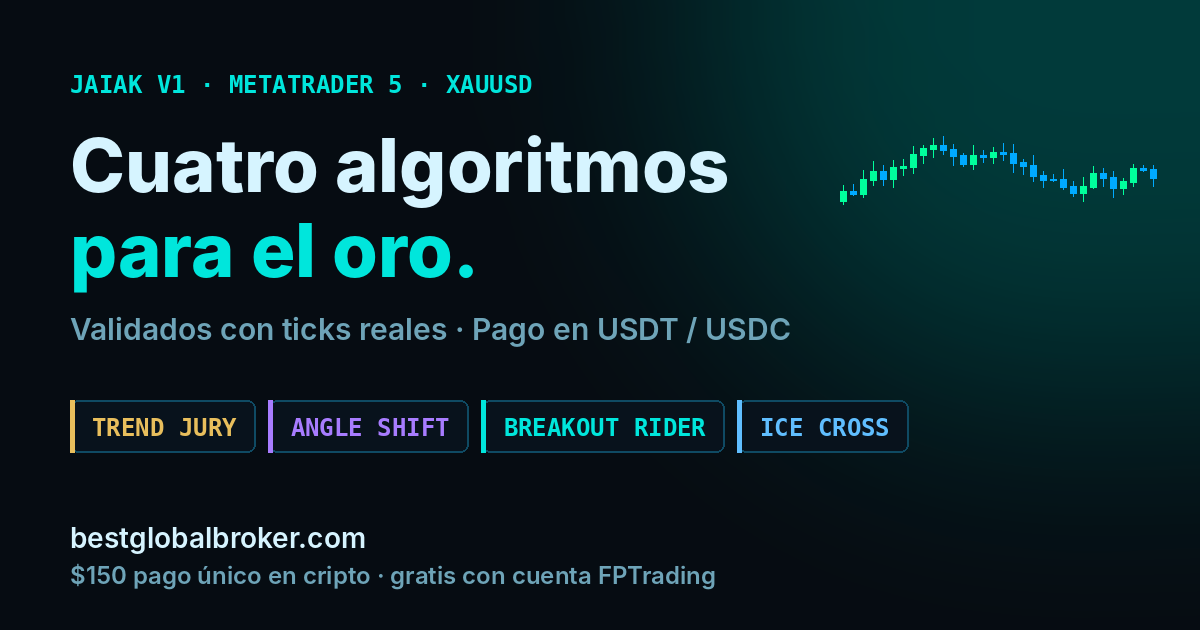
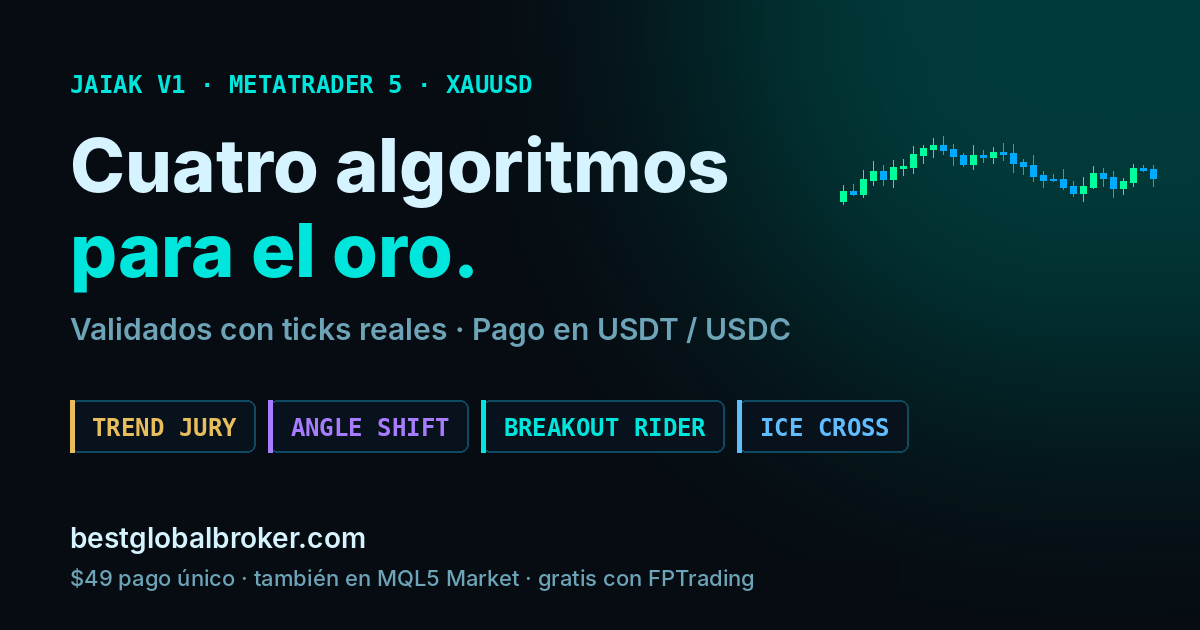
Price $49, add 'Also on MQL5 Market' buttons, clear old $150 crypto links
Claude-Session: https://claude.ai/code/session_019ddELBzFjdqUUo8kfWymxw

Changed region(s): [[0.0617, 0.8746, 0.6475, 0.9349]]

diff --git a/index.html b/index.html
@@ -5,7 +5,7 @@
   <meta name="viewport" content="width=device-width, initial-scale=1, viewport-fit=cover">
   <meta http-equiv="X-UA-Compatible" content="IE=edge">
   <title>JAIAK V1 · Expert Advisors MT5 para XAUUSD (oro) | BestGlobalBroker.com</title>
-  <meta name="description" content="4 Expert Advisors JAIAK V1 para MetaTrader 5 en XAUUSD: TREND JURY, ANGLE SHIFT, BREAKOUT RIDER e ICE CROSS. Validados con ticks reales. $150 pago único o gratis con cuenta FPTrading.">
+  <meta name="description" content="4 Expert Advisors JAIAK V1 para MetaTrader 5 en XAUUSD: TREND JURY, ANGLE SHIFT, BREAKOUT RIDER e ICE CROSS. Validados con ticks reales. $49 pago único (también en MQL5 Market) o gratis con cuenta FPTrading.">
   <meta name="robots" content="index, follow, max-image-preview:large">
   <meta name="theme-color" content="#060c12">
   <meta name="color-scheme" content="dark">
@@ -86,7 +86,7 @@
    "url": "https://bestglobalbroker.com/#ea-jury",
    "offers": {
     "@type": "Offer",
-    "price": "150.00",
+    "price": "49.00",
     "priceCurrency": "USD",
     "availability": "https://schema.org/InStock",
     "url": "https://bestglobalbroker.com/#ea-jury"
@@ -107,7 +107,7 @@
    "url": "https://bestglobalbroker.com/#ea-angle",
    "offers": {
     "@type": "Offer",
-    "price": "150.00",
+    "price": "49.00",
     "priceCurrency": "USD",
     "availability": "https://schema.org/InStock",
     "url": "https://bestglobalbroker.com/#ea-angle"
@@ -128,7 +128,7 @@
    "url": "https://bestglobalbroker.com/#ea-rider",
    "offers": {
     "@type": "Offer",
-    "price": "150.00",
+    "price": "49.00",
     "priceCurrency": "USD",
     "availability": "https://schema.org/InStock",
     "url": "https://bestglobalbroker.com/#ea-rider"
@@ -149,7 +149,7 @@
    "url": "https://bestglobalbroker.com/#ea-ice",
    "offers": {
     "@type": "Offer",
-    "price": "150.00",
+    "price": "49.00",
     "priceCurrency": "USD",
     "availability": "https://schema.org/InStock",
     "url": "https://bestglobalbroker.com/#ea-ice"
@@ -362,8 +362,9 @@
               <div><dt data-i18n="spec_risk">Riesgo</dt><dd>0.30%</dd></div>
             </dl>
             <div class="card-act">
-              <a class="btn btn-acc btn-sm" href="#solicitud" data-buy="jury"><span data-i18n="btn_buy">Comprar · $150</span></a>
+              <a class="btn btn-acc btn-sm" href="#solicitud" data-buy="jury"><span data-i18n="btn_buy">Comprar · $49</span></a>
               <a class="btn btn-ghost btn-sm" href="#precios"><span data-i18n="btn_free">Gratis con FPTrading</span></a>
+              <a class="btn btn-mql5 btn-sm" href="https://www.mql5.com/en/market/product/209857" target="_blank" rel="noopener"><span data-i18n="btn_mql5">También en MQL5 Market</span></a>
             </div>
           </article>
           <article class="card acc-angle reveal" id="ea-angle">
@@ -387,8 +388,9 @@
               <div><dt data-i18n="spec_risk">Riesgo</dt><dd>0.30%</dd></div>
             </dl>
             <div class="card-act">
-              <a class="btn btn-acc btn-sm" href="#solicitud" data-buy="angle"><span data-i18n="btn_buy">Comprar · $150</span></a>
+              <a class="btn btn-acc btn-sm" href="#solicitud" data-buy="angle"><span data-i18n="btn_buy">Comprar · $49</span></a>
               <a class="btn btn-ghost btn-sm" href="#precios"><span data-i18n="btn_free">Gratis con FPTrading</span></a>
+              <a class="btn btn-mql5 btn-sm" href="https://www.mql5.com/en/market/product/209859" target="_blank" rel="noopener"><span data-i18n="btn_mql5">También en MQL5 Market</span></a>
             </div>
           </article>
           <article class="card acc-rider reveal" id="ea-rider">
@@ -412,8 +414,9 @@
               <div><dt data-i18n="spec_risk">Riesgo</dt><dd>0.30%</dd></div>
             </dl>
             <div class="card-act">
-              <a class="btn btn-acc btn-sm" href="#solicitud" data-buy="rider"><span data-i18n="btn_buy">Comprar · $150</span></a>
+              <a class="btn btn-acc btn-sm" href="#solicitud" data-buy="rider"><span data-i18n="btn_buy">Comprar · $49</span></a>
               <a class="btn btn-ghost btn-sm" href="#precios"><span data-i18n="btn_free">Gratis con FPTrading</span></a>
+              <a class="btn btn-mql5 btn-sm" href="https://www.mql5.com/en/market/product/209860" target="_blank" rel="noopener"><span data-i18n="btn_mql5">También en MQL5 Market</span></a>
             </div>
           </article>
           <article class="card acc-ice reveal" id="ea-ice">
@@ -437,8 +440,9 @@
               <div><dt data-i18n="spec_risk">Riesgo</dt><dd>0.30%</dd></div>
             </dl>
             <div class="card-act">
-              <a class="btn btn-acc btn-sm" href="#solicitud" data-buy="ice"><span data-i18n="btn_buy">Comprar · $150</span></a>
+              <a class="btn btn-acc btn-sm" href="#solicitud" data-buy="ice"><span data-i18n="btn_buy">Comprar · $49</span></a>
               <a class="btn btn-ghost btn-sm" href="#precios"><span data-i18n="btn_free">Gratis con FPTrading</span></a>
+              <a class="btn btn-mql5 btn-sm" href="https://www.mql5.com/en/market/product/209861" target="_blank" rel="noopener"><span data-i18n="btn_mql5">También en MQL5 Market</span></a>
             </div>
           </article>
         </div>
@@ -502,7 +506,7 @@
           </article>
           <article class="plan">
             <h3 data-i18n="plan2_name">Licencia individual</h3>
-            <div class="price"><b data-i18n="plan2_price">$150</b><span data-i18n="plan2_per">por EA · pago único</span></div>
+            <div class="price"><b data-i18n="plan2_price">$49</b><span data-i18n="plan2_per">por EA · pago único</span></div>
             <p data-i18n="plan2_desc">¿Prefieres tu broker actual? Compra el EA que quieras pagando con stablecoins y recibe el archivo con tu clave de licencia.</p>
             <ul class="ticks">
               <li data-i18n="plan2_f1">Licencia de por vida del EA elegido</li><li data-i18n="plan2_f2">Pago en USDT o USDC (varias redes)</li>
@@ -527,7 +531,7 @@
           <div class="path">
             <h3 data-i18n="dl_a_title">Compra con USDT / USDC</h3>
             <ol>
-              <li data-i18n="dl_a1">Elige el EA y pulsa «Comprar»: pagas $150 en USDT o USDC.</li><li data-i18n="dl_a2">Envíanos en el formulario el ID del pago y tu número de cuenta MT5.</li>
+              <li data-i18n="dl_a1">Elige el EA y pulsa «Comprar»: pagas $49 en USDT o USDC.</li><li data-i18n="dl_a2">Envíanos en el formulario el ID del pago y tu número de cuenta MT5.</li>
               <li data-i18n="dl_a3">Recibes por email tu enlace de descarga privado y tu clave de licencia.</li><li data-i18n="dl_a4">Copia el .ex5, carga el .set y pega la clave en «Licence key».</li>
             </ol>
             <p class="nocrypto" data-i18n="nocrypto">¿No puedes pagar en cripto? <a href="https://wa.me/34620987016?text=Hola%2C%20quiero%20comprar%20un%20EA%20JAIAK%20V1%20pero%20no%20puedo%20pagar%20en%20cripto" target="_blank" rel="noopener">Escríbenos por WhatsApp</a> y buscamos otra forma de pago.</p>

diff --git a/translations.js b/translations.js
@@ -18,9 +18,10 @@ window.translations = {
   "brk_desc": "Es el broker con el que desarrollamos y probamos los EAs: los resultados de las pruebas usan sus datos reales.",
   "brk_eyebrow": "BROKER ASOCIADO",
   "brk_title": "¿Por qué FPTrading?",
-  "btn_buy": "Comprar · $150",
+  "btn_buy": "Comprar · $49",
   "btn_free": "Gratis con FPTrading",
-  "dl_a1": "Elige el EA y pulsa «Comprar»: pagas $150 en USDT o USDC.",
+  "btn_mql5": "También en MQL5 Market",
+  "dl_a1": "Elige el EA y pulsa «Comprar»: pagas $49 en USDT o USDC.",
   "dl_a2": "Envíanos en el formulario el ID del pago y tu número de cuenta MT5.",
   "dl_a3": "Recibes por email tu enlace de descarga privado y tu clave de licencia.",
   "dl_a4": "Copia el .ex5, carga el .set y pega la clave en «Licence key».",
@@ -174,7 +175,7 @@ window.translations = {
   "plan2_f4": "Actualizaciones V1.x y soporte directo",
   "plan2_name": "Licencia individual",
   "plan2_per": "por EA · pago único",
-  "plan2_price": "$150",
+  "plan2_price": "$49",
   "price_desc": "Sin suscripciones. Pagas una vez o los consigues gratis operando con nuestro broker asociado.",
   "price_eyebrow": "PRECIOS CLAROS",
   "price_title": "Dos formas de conseguirlos",
@@ -230,9 +231,10 @@ window.translations = {
   "brk_desc": "It is the broker we develop and test the EAs with: the test results use its real data.",
   "brk_eyebrow": "PARTNER BROKER",
   "brk_title": "Why FPTrading?",
-  "btn_buy": "Buy · $150",
+  "btn_buy": "Buy · $49",
   "btn_free": "Free with FPTrading",
-  "dl_a1": "Pick the EA and press \"Buy\": you pay $150 in USDT or USDC.",
+  "btn_mql5": "Also on MQL5 Market",
+  "dl_a1": "Pick the EA and press \"Buy\": you pay $49 in USDT or USDC.",
   "dl_a2": "Send us the payment ID and your MT5 account number in the form.",
   "dl_a3": "You receive your private download link and licence key by email.",
   "dl_a4": "Copy the .ex5, load the .set and paste the key into \"Licence key\".",
@@ -386,7 +388,7 @@ window.translations = {
   "plan2_f4": "V1.x updates and direct support",
   "plan2_name": "Individual licence",
   "plan2_per": "per EA · one-time payment",
-  "plan2_price": "$150",
+  "plan2_price": "$49",
   "price_desc": "No subscriptions. Pay once, or get them free by trading with our partner broker.",
   "price_eyebrow": "CLEAR PRICING",
   "price_title": "Two ways to get them",

diff --git a/script.js b/script.js
@@ -4,17 +4,17 @@
 
   /* ------------------------------------------------------------------
      CHECKOUT LINKS (USDT / USDC)
-     Paste here the crypto payment link of each EA ($150) from your
+     Paste here the crypto payment link of each EA ($49) from your
      gateway (e.g. NOWPayments payment link / invoice). The "Buy" button
      opens it in a new tab and also prepares the form, where the buyer
      sends the payment ID + MT5 account number. While a link is empty,
      "Buy" only opens the form with that EA pre-filled.
      ------------------------------------------------------------------ */
   var CHECKOUT = {
-    jury:  "https://nowpayments.io/payment/?iid=4437725295",
-    angle: "https://nowpayments.io/payment/?iid=5366102037",
-    rider: "https://nowpayments.io/payment/?iid=5843197917",
-    ice:   "https://nowpayments.io/payment/?iid=5924352728"
+    jury:  "",
+    angle: "",
+    rider: "",
+    ice:   ""
   };
   var FORM_ENDPOINT = "https://formsubmit.co/ajax/jackzmaertens@gmail.com";
 

diff --git a/style.css b/style.css
@@ -338,3 +338,7 @@ body.lock { overflow: hidden; }
 
 .nocrypto { margin: 14px 0 0; font-size: 13px; color: var(--muted); text-align: center; }
 .nocrypto a { color: var(--up); text-decoration: underline; text-underline-offset: 3px; }
+
+.btn-mql5 { flex-basis: 100%; justify-content: center; background: transparent; border-color: var(--line-2); color: var(--muted); }
+.btn-mql5::after { content: "\2197"; margin-left: 6px; font-size: .9em; }
+.btn-mql5:hover { border-color: var(--acc, var(--cyan)); color: var(--text); }
